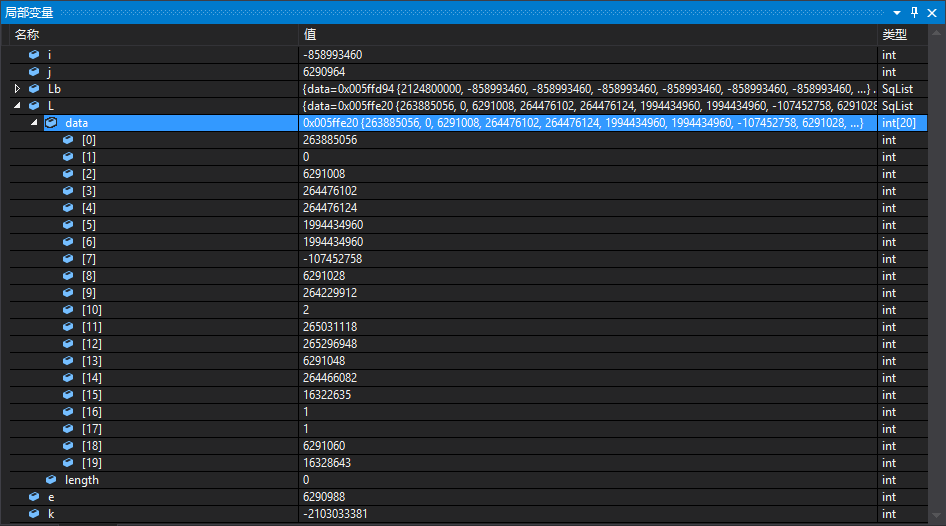
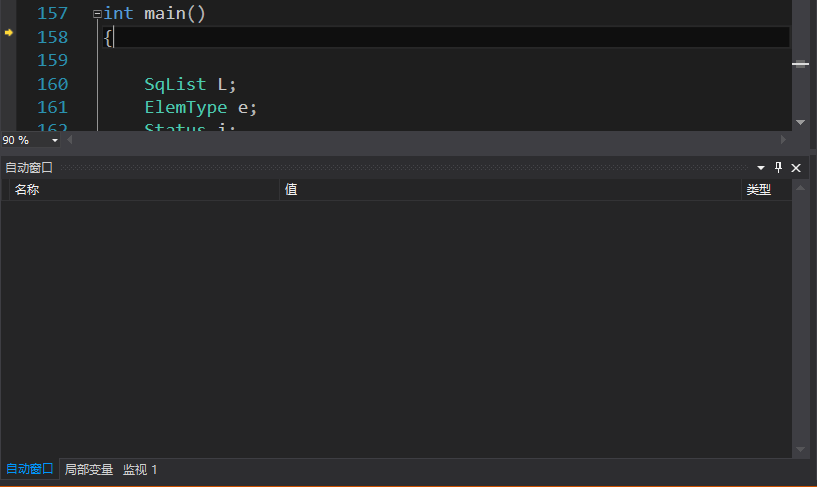
开始了顺序存储结构的内存分析报告

Changed region(s): [[0.0, 0.0, 1.0, 1.0], [0.1836, 0.154, 0.2754, 0.1848]]

diff --git a/第3章 线性表/01-线性表的顺序储存结构/README.md b/第3章 线性表/01-线性表的顺序储存结构/README.md
@@ -1,10 +1,44 @@
 # 线性表的顺序存储结构操作 #
 ## 输出结果 ##
 ![](img/result.png)
-## 调试分析 ##
-### 1 ###
-按下F10，可以看到底部窗口输出局部变量的值，可以帮助我们清楚地知道这些变量在内存中是如何存储的，尤其是了解了SqList结构体这一内存结构。
+## 内存分析报告 ##
+### 1. ###
+按下第1次F10，单步跨过程执行，程序运行至int main()函数处，结果输出如下。
 ![](img/bug2.png)
+同时，可以看到CMD窗口输出空白（其实是全黑）的界面，效果输出如下：
+![](img/bug3.png)
+### 2. ###
+按下第2次F10，单步跨过程执行的程序如下：
+
+    int main()
+    {   
+    	SqList L;
+    	ElemType e;
+    	Status i;
+    	int j,k;
+上面的声明变量语句在程序中开辟出变量的起始地址，自动窗口的输出结果如下：
+![](img/bug4.png)
+>说明：这个0xcccccccc是DEBUG模式下，编译器为没有初始化的指针填充的地址值。看到很多其他的未初始化的指针都是这个值。
+### 3. ###
+按下第3次F10，&L生成了顺序表L，单步执行的程序如下:
+
+    i=InitList(&L);
+自动窗口的输出结果如下：
+![](img/bug5.png)
+>上面红颜色的字体表示变量在刚才的语句执行中改变了。
+### 4. ###
+按下第4次F10，printf语句输出了L顺序表的值，单步执行的程序如下：
+
+    printf("After L initialization: L.length=%d\n",L.length);
+![](img/bug6.png)
+>说实话，对上面printf返回值是0x00000023，我也不是很明白。
+
+另外，在CMD窗口中输出了一条语句的结果（后面不再讲解这个了，本质上都相同）
+![](img/bug7.png)
+
+### 5. ###
+
+
 
 ## 目前存在的问题 ##
 ### 1. ###
